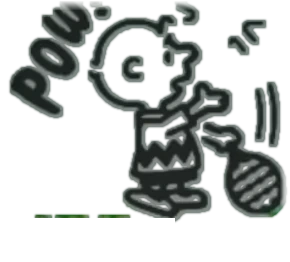
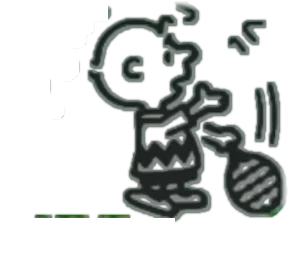
Show the full POW! lettering
The W and ! were clipped and faded by the top edge of Charlie's sprite.
POW! is now its own segment taken from the all-segments photo, and the
clipped copy is removed from Charlie's sprite.

Claude-Session: https://claude.ai/code/session_01F9zz5Cnvdqt99eQ18sZoej

Changed region(s): [[0.031, 0.0, 0.3724, 0.458]]

diff --git a/snoopy-tennis/index.html b/snoopy-tennis/index.html
@@ -137,7 +137,7 @@ html,body{margin:0;height:100%;background:radial-gradient(ellipse at 50% 45%,#3b
 <script>
 (()=>{
 "use strict";
-const ATLAS={"ch_ball":{"x":0,"y":370,"w":290,"h":262},"ch_toss":{"x":0,"y":370,"w":290,"h":262},"ch_idle":{"x":0,"y":370,"w":290,"h":262},"ch_pow":{"x":0,"y":370,"w":290,"h":262},"lu_up":{"x":0,"y":95,"w":230,"h":250},"lu_idle":{"x":0,"y":95,"w":230,"h":250},"lu_swing":{"x":0,"y":95,"w":230,"h":250},"sn_top_idle":{"x":560,"y":95,"w":437,"h":505},"sn_mid_idle":{"x":560,"y":95,"w":437,"h":505},"sn_bot_idle":{"x":560,"y":95,"w":437,"h":505},"sn_top_up":{"x":560,"y":95,"w":437,"h":505},"sn_top_swing":{"x":560,"y":95,"w":437,"h":505},"sn_bot_swing":{"x":560,"y":95,"w":437,"h":505},"sn_bot_up":{"x":560,"y":95,"w":437,"h":505},"sn_mid_up":{"x":560,"y":95,"w":437,"h":505},"sn_mid_swing":{"x":560,"y":95,"w":437,"h":505},"miss_txt":{"x":464,"y":4,"w":100,"h":40},"bird1":{"x":480,"y":46,"w":82,"h":71},"bird2":{"x":557,"y":46,"w":81,"h":71},"letterA":{"x":128,"y":590,"w":38,"h":38},"digits":{"ones":{"x":310,"y":0,"w":62,"h":100},"pitch":62,"h1":{"x":178,"y":0,"w":56,"h":100}},"pos":[[196.8,294.6],[198.2,133.6],[207.5,204.7],[273.6,345.0],[296.7,314.4],[296.9,375.1],[297.6,264.0],[301.0,213.4],[308.9,128.2],[344.0,311.6],[354.0,221.5],[377.3,375.0],[404.4,344.1],[405.4,129.8],[406.0,291.0],[410.5,233.4],[411.9,186.2],[460.2,382.1],[472.9,278.3],[474.7,162.5],[507.8,136.6],[508.3,378.8],[508.4,253.9],[544.9,405.1],[551.9,147.7],[611.8,276.6],[613.3,430.5],[618.7,147.8],[246,320],[544,275]],"sn_sleep":{"x":560,"y":95,"w":437,"h":505},"ch_away":{"x":0,"y":370,"w":290,"h":262},"cm_idle":{"x":296,"y":372,"w":354,"h":260},"cm_throw":{"x":296,"y":372,"w":354,"h":260},"crash":{"x":787,"y":117,"w":217,"h":229},"am":{"x":23,"y":7,"w":56,"h":33},"game_a":{"x":23,"y":593,"w":137,"h":31},"game_b":{"x":838,"y":588,"w":137,"h":37},"wood_l":{"x":792,"y":19,"w":74,"h":65},"wood_r":{"x":878,"y":22,"w":80,"h":62},"lu_low_rk":{"x":130,"y":264,"w":36,"h":67},"toss_fx":{"x":175,"y":336,"w":81,"h":66},"miss_ball0":{"x":776,"y":153,"w":78,"h":41},"miss_ball1":{"x":774,"y":296,"w":86,"h":60},"miss_ball2":{"x":798,"y":500,"w":58,"h":83},"lu_low_arm":{"x":102,"y":232,"w":52,"h":31}};
+const ATLAS={"ch_ball":{"x":0,"y":370,"w":290,"h":262},"ch_toss":{"x":0,"y":370,"w":290,"h":262},"ch_idle":{"x":0,"y":370,"w":290,"h":262},"ch_pow":{"x":0,"y":370,"w":290,"h":262},"lu_up":{"x":0,"y":95,"w":230,"h":250},"lu_idle":{"x":0,"y":95,"w":230,"h":250},"lu_swing":{"x":0,"y":95,"w":230,"h":250},"sn_top_idle":{"x":560,"y":95,"w":437,"h":505},"sn_mid_idle":{"x":560,"y":95,"w":437,"h":505},"sn_bot_idle":{"x":560,"y":95,"w":437,"h":505},"sn_top_up":{"x":560,"y":95,"w":437,"h":505},"sn_top_swing":{"x":560,"y":95,"w":437,"h":505},"sn_bot_swing":{"x":560,"y":95,"w":437,"h":505},"sn_bot_up":{"x":560,"y":95,"w":437,"h":505},"sn_mid_up":{"x":560,"y":95,"w":437,"h":505},"sn_mid_swing":{"x":560,"y":95,"w":437,"h":505},"miss_txt":{"x":464,"y":4,"w":100,"h":40},"bird1":{"x":480,"y":46,"w":82,"h":71},"bird2":{"x":557,"y":46,"w":81,"h":71},"letterA":{"x":128,"y":590,"w":38,"h":38},"digits":{"ones":{"x":310,"y":0,"w":62,"h":100},"pitch":62,"h1":{"x":178,"y":0,"w":56,"h":100}},"pos":[[196.8,294.6],[198.2,133.6],[207.5,204.7],[273.6,345.0],[296.7,314.4],[296.9,375.1],[297.6,264.0],[301.0,213.4],[308.9,128.2],[344.0,311.6],[354.0,221.5],[377.3,375.0],[404.4,344.1],[405.4,129.8],[406.0,291.0],[410.5,233.4],[411.9,186.2],[460.2,382.1],[472.9,278.3],[474.7,162.5],[507.8,136.6],[508.3,378.8],[508.4,253.9],[544.9,405.1],[551.9,147.7],[611.8,276.6],[613.3,430.5],[618.7,147.8],[246,320],[544,275]],"sn_sleep":{"x":560,"y":95,"w":437,"h":505},"ch_away":{"x":0,"y":370,"w":290,"h":262},"cm_idle":{"x":296,"y":372,"w":354,"h":260},"cm_throw":{"x":296,"y":372,"w":354,"h":260},"crash":{"x":787,"y":117,"w":217,"h":229},"am":{"x":23,"y":7,"w":56,"h":33},"game_a":{"x":23,"y":593,"w":137,"h":31},"game_b":{"x":838,"y":588,"w":137,"h":37},"wood_l":{"x":792,"y":19,"w":74,"h":65},"wood_r":{"x":878,"y":22,"w":80,"h":62},"lu_low_rk":{"x":130,"y":264,"w":36,"h":67},"toss_fx":{"x":175,"y":336,"w":81,"h":66},"miss_ball0":{"x":776,"y":153,"w":78,"h":41},"miss_ball1":{"x":774,"y":296,"w":86,"h":60},"miss_ball2":{"x":798,"y":500,"w":58,"h":83},"lu_low_arm":{"x":102,"y":232,"w":52,"h":31},"pow_txt":{"x":15,"y":345,"w":89,"h":140}};
 const cv=document.getElementById('cv'),ctx=cv.getContext('2d');
 const W=997,H=632;
 ATLAS.bg={x:0,y:0,w:997,h:632};
@@ -151,10 +151,10 @@ const SPOT=['top','mid','bot'];
 const MAX_MISS=3;
 
 /* ---------- assets ---------- */
-const NAMES=['lu_low_arm','am','game_a','game_b','wood_l','wood_r','lu_low_rk','toss_fx','miss_ball0','miss_ball1','miss_ball2','bg','ch_ball','ch_toss','ch_idle','ch_pow','lu_up','lu_idle','lu_swing','miss_txt','bird1','bird2',
+const NAMES=['pow_txt','lu_low_arm','am','game_a','game_b','wood_l','wood_r','lu_low_rk','toss_fx','miss_ball0','miss_ball1','miss_ball2','bg','ch_ball','ch_toss','ch_idle','ch_pow','lu_up','lu_idle','lu_swing','miss_txt','bird1','bird2',
   'sn_sleep','ch_away','cm_idle','cm_throw','crash',
   'sn_top_idle','sn_top_up','sn_top_swing','sn_mid_idle','sn_mid_up','sn_mid_swing','sn_bot_idle','sn_bot_up','sn_bot_swing'];
-const EXT={lu_low_arm:'png',am:'png',game_a:'png',game_b:'png',wood_l:'png',wood_r:'png',lu_low_rk:'png',toss_fx:'png',miss_ball0:'png',miss_ball1:'png',miss_ball2:'png'};
+const EXT={pow_txt:'png',lu_low_arm:'png',am:'png',game_a:'png',game_b:'png',wood_l:'png',wood_r:'png',lu_low_rk:'png',toss_fx:'png',miss_ball0:'png',miss_ball1:'png',miss_ball2:'png'};
 const IMG={};
 let loaded=0,total=NAMES.length+11;
 function load(key,src){const im=new Image();im.onload=()=>{loaded++};im.onerror=()=>{loaded++};im.src=src;IMG[key]=im}
@@ -352,6 +352,7 @@ function render(now){
     else if(serve){const a=now-serve.t0;ch=a<350?'ch_ball':a<700?'ch_toss':'ch_pow'}
     else if(chNear||now<chIdleUntil)ch='ch_idle';         // racket ready for an incoming return
     spr(ch);
+    if(ch==='ch_pow')spr('pow_txt');                      // full POW! lettering
     if(ch==='ch_toss')spr('toss_fx');                     // the ball tossed above his head
   }
   // GAME A label at the left, GAME B at the right (none in clock mode), as on the LCD

diff --git a/snoopy-tennis/sw.js b/snoopy-tennis/sw.js
@@ -1,5 +1,5 @@
-const CACHE = 'snoopy-tennis-v29';
-const ASSETS = ['./', 'index.html', 'manifest.json', 'favicon-32.png', 'apple-touch-icon.png', 'icon-192.png', 'icon-512.png', 'assets/atlas.json', 'assets/bg.webp', 'assets/am.png', 'assets/game_a.png', 'assets/game_b.png', 'assets/wood_l.png', 'assets/wood_r.png', 'assets/lu_low_rk.png', 'assets/lu_low_arm.png', 'assets/toss_fx.png', 'assets/miss_ball0.png', 'assets/miss_ball1.png', 'assets/miss_ball2.png', 'assets/bird1.webp', 'assets/bird2.webp', 'assets/ch_ball.webp', 'assets/ch_idle.webp', 'assets/ch_pow.webp', 'assets/ch_away.webp', 'assets/cm_idle.webp', 'assets/cm_throw.webp', 'assets/crash.webp', 'assets/sn_sleep.webp', 'assets/ch_toss.webp', 'assets/d0.png', 'assets/d1.png', 'assets/d2.png', 'assets/d3.png', 'assets/d4.png', 'assets/d5.png', 'assets/d6.png', 'assets/d7.png', 'assets/d8.png', 'assets/d9.png', 'assets/device.jpg', 'assets/h1.png', 'assets/led.png', 'assets/lu_idle.webp', 'assets/lu_swing.webp', 'assets/lu_up.webp', 'assets/miss_txt.webp', 'assets/pill.png', 'assets/sn_bot_idle.webp', 'assets/sn_bot_swing.webp', 'assets/sn_bot_up.webp', 'assets/sn_mid_idle.webp', 'assets/sn_mid_swing.webp', 'assets/sn_mid_up.webp', 'assets/sn_top_idle.webp', 'assets/sn_top_swing.webp', 'assets/sn_top_up.webp'];
+const CACHE = 'snoopy-tennis-v30';
+const ASSETS = ['./', 'index.html', 'manifest.json', 'favicon-32.png', 'apple-touch-icon.png', 'icon-192.png', 'icon-512.png', 'assets/atlas.json', 'assets/bg.webp', 'assets/am.png', 'assets/game_a.png', 'assets/game_b.png', 'assets/wood_l.png', 'assets/wood_r.png', 'assets/lu_low_rk.png', 'assets/lu_low_arm.png', 'assets/pow_txt.png', 'assets/toss_fx.png', 'assets/miss_ball0.png', 'assets/miss_ball1.png', 'assets/miss_ball2.png', 'assets/bird1.webp', 'assets/bird2.webp', 'assets/ch_ball.webp', 'assets/ch_idle.webp', 'assets/ch_pow.webp', 'assets/ch_away.webp', 'assets/cm_idle.webp', 'assets/cm_throw.webp', 'assets/crash.webp', 'assets/sn_sleep.webp', 'assets/ch_toss.webp', 'assets/d0.png', 'assets/d1.png', 'assets/d2.png', 'assets/d3.png', 'assets/d4.png', 'assets/d5.png', 'assets/d6.png', 'assets/d7.png', 'assets/d8.png', 'assets/d9.png', 'assets/device.jpg', 'assets/h1.png', 'assets/led.png', 'assets/lu_idle.webp', 'assets/lu_swing.webp', 'assets/lu_up.webp', 'assets/miss_txt.webp', 'assets/pill.png', 'assets/sn_bot_idle.webp', 'assets/sn_bot_swing.webp', 'assets/sn_bot_up.webp', 'assets/sn_mid_idle.webp', 'assets/sn_mid_swing.webp', 'assets/sn_mid_up.webp', 'assets/sn_top_idle.webp', 'assets/sn_top_swing.webp', 'assets/sn_top_up.webp'];
 self.addEventListener('install', e => {
   e.waitUntil(caches.open(CACHE).then(c => c.addAll(ASSETS)).then(() => self.skipWaiting()));
 });
